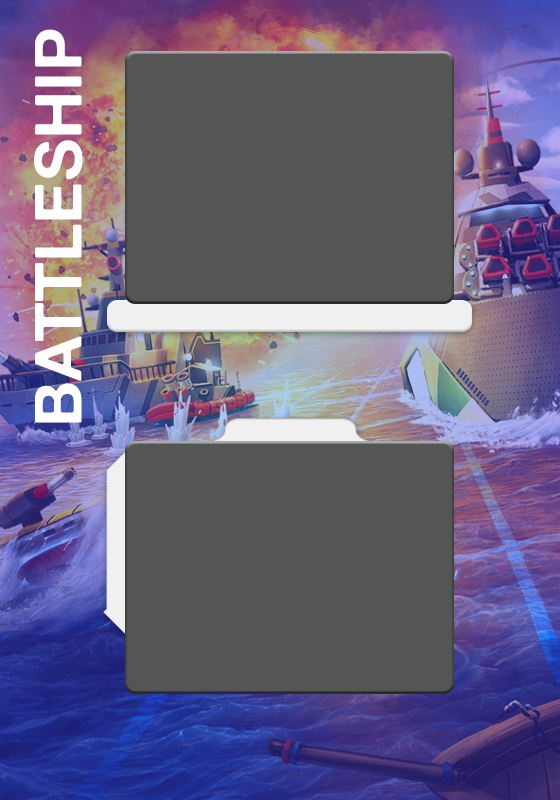
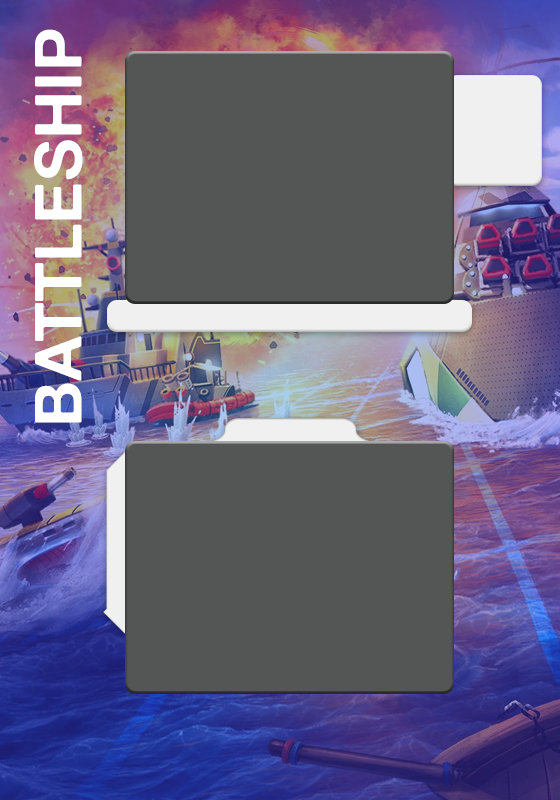
added enemy ship display

Changed region(s): [[0.7893, 0.0938, 0.9714, 0.25]]

diff --git a/main.py b/main.py
@@ -47,12 +47,69 @@ def vhardClick(event):
     hardButton.configure(bg="white")
     vhardButton.configure(bg="#bababa")
     aLabel.diff=4
+    
+
+def getShipsLeft(x, y):
+    #mark ship index as hit if hit
+    shipCnt = 0
+    for ship in aLabel.botShips:
+        indCnt = 0
+        for ind in ship:
+            if ind == (x, y):
+                aLabel.botShips[shipCnt][indCnt] = 'hit'
+            indCnt += 1
+        shipCnt += 1
+    
+    #calc number of ships left
+    carriers = 0
+    destroyers = 0
+    battleships = 0
+    cruisers = 0
+    for i in aLabel.botShips:
+        if len(i) == 5:
+            dead = True
+            for coord in i:
+                if coord != 'hit':
+                    dead = False
+            if dead != True:
+                carriers += 1
+        elif len(i) == 4:
+            dead = True
+            for coord in i:
+                if coord != 'hit':
+                    dead = False
+            if dead != True:
+                battleships += 1
+        elif len(i) == 3:
+            dead = True
+            for coord in i:
+                if coord != 'hit':
+                    dead = False
+            if dead != True:
+                cruisers += 1
+        elif len(i) == 2:
+            dead = True
+            for coord in i:
+                if coord != 'hit':
+                    dead = False
+            if dead != True:
+                destroyers += 1
+        eCarrierNum.configure(text = carriers)
+        eBattleshipNum.configure(text = battleships)
+        eCruiserNum.configure(text = cruisers)
+        eDestroyerNum.configure(text = destroyers)
+        
+        
+        
+    
 
 #Event Handler for clicking on an attacking cell
 def onAClick(event):
     if (aLabel.done!=True):
         if(aLabel.gameDone != True):
             if(subBut.complete==True):
+                #take shot
+                
                 aLabel.start=True
                 for y in range(0,8):
                     for x in range (0,8):
@@ -60,8 +117,8 @@ def onAClick(event):
                             xSpot=x
                             ySpot=y
     
-                if (buttonsB[(xSpot,ySpot)].cget('text')!="X"):
-                    buttonsB[(xSpot,ySpot)].configure(text="X")
+                if (buttonsB[(xSpot,ySpot)].cget('text')!="X") or (buttonsB[(xSpot,ySpot)].cget('text')!=" "):
+                    
                     buttonsB[(xSpot,ySpot)].shot=True
                     hit = False
                     for ship in agentSL:
@@ -69,6 +126,7 @@ def onAClick(event):
                             if (xSpot,ySpot) == piece:
                                 hit=True
                     if (hit==True):
+                        buttonsB[(xSpot,ySpot)].configure(text="X")
                         aLabel.configure(text="HIT!")
                         aLabel.place(x=280,y=305)
                         buttonsB[(xSpot,ySpot)].configure(bg="red")
@@ -77,6 +135,7 @@ def onAClick(event):
                             wOrL('w') #You Win
     
                     else:
+                        buttonsB[(xSpot,ySpot)].configure(text=" ")
                         aLabel.configure(text="MISS")
                         aLabel.place(x=280,y=305)
                         buttonsB[(xSpot,ySpot)].configure(bg="cyan")
@@ -84,6 +143,9 @@ def onAClick(event):
                     agentAtt(aLabel.clickC)
     
                     aLabel.clickC +=1
+                    
+                #update number of enemy ship types left
+                getShipsLeft(xSpot, ySpot)
         else:
             if (aLabel.done!=True):
                 aLabel.configure(text="Submit your ship placements below first!")
@@ -868,9 +930,47 @@ aLabel.clickC=0
 aLabel.done=False
 aLabel.diff=0
 
+
+#labels for enemy ships
+eHeader = Label(root)
+eHeader.place(x=460,y=80)
+eHeader.configure(text = 'Enemy Ships')
+
+eCarriers = Label(root)
+eCarriers.place(x=460,y=100)
+eCarriers.configure(text = 'Carriers:')
+eCarrierNum = Label(root)
+eCarrierNum.place(x=510,y=100)
+eCarrierNum.configure(text = 1)
+
+eBattleships = Label(root)
+eBattleships.place(x=460,y=120)
+eBattleships.configure(text = 'Battleships:')
+eBattleshipNum = Label(root)
+eBattleshipNum.place(x=525,y=120)
+eBattleshipNum.configure(text = 2)
+
+eCruisers = Label(root)
+eCruisers.place(x=460,y=140)
+eCruisers.configure(text = 'Cruisers:')
+eCruiserNum = Label(root)
+eCruiserNum.place(x=510,y=140)
+eCruiserNum.configure(text = 3)
+
+
+eDestroyers = Label(root)
+eDestroyers.place(x=460,y=160)
+eDestroyers.configure(text = 'Destroyers:')
+eDestroyerNum = Label(root)
+eDestroyerNum.place(x=520,y=160)
+eDestroyerNum.configure(text = 4)
+
+
 #Agent's board
 agentBoard = brd.Board()
 agentSL = agentBoard.ships
-
+aLabel.botShips = []
+for ship in agentSL:
+    aLabel.botShips.append(ship[:])
 
 root.mainloop()

diff --git a/genAttacks.py b/genAttacks.py
@@ -183,13 +183,13 @@ class Agent:
 
 def mainAttack(userBoard, diff):
     if (diff == 1):
-        eps = 0.6
+        eps = 0.8
     elif (diff==2):
-        eps = 0.3
+        eps = 0.5
     elif (diff==3):
-        eps = 0.1
+        eps = 0.3
     else:
-        eps=0.01
+        eps=0.05
     
     testWorld = World(userBoard)
     testAgent = Agent(0.9, eps, testWorld)
